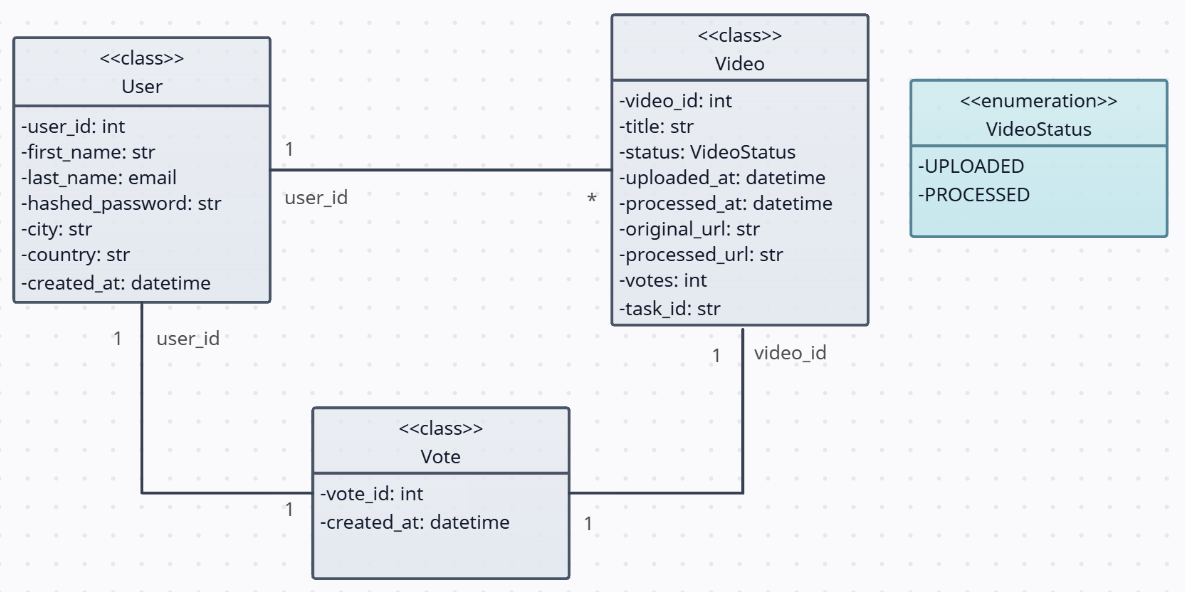
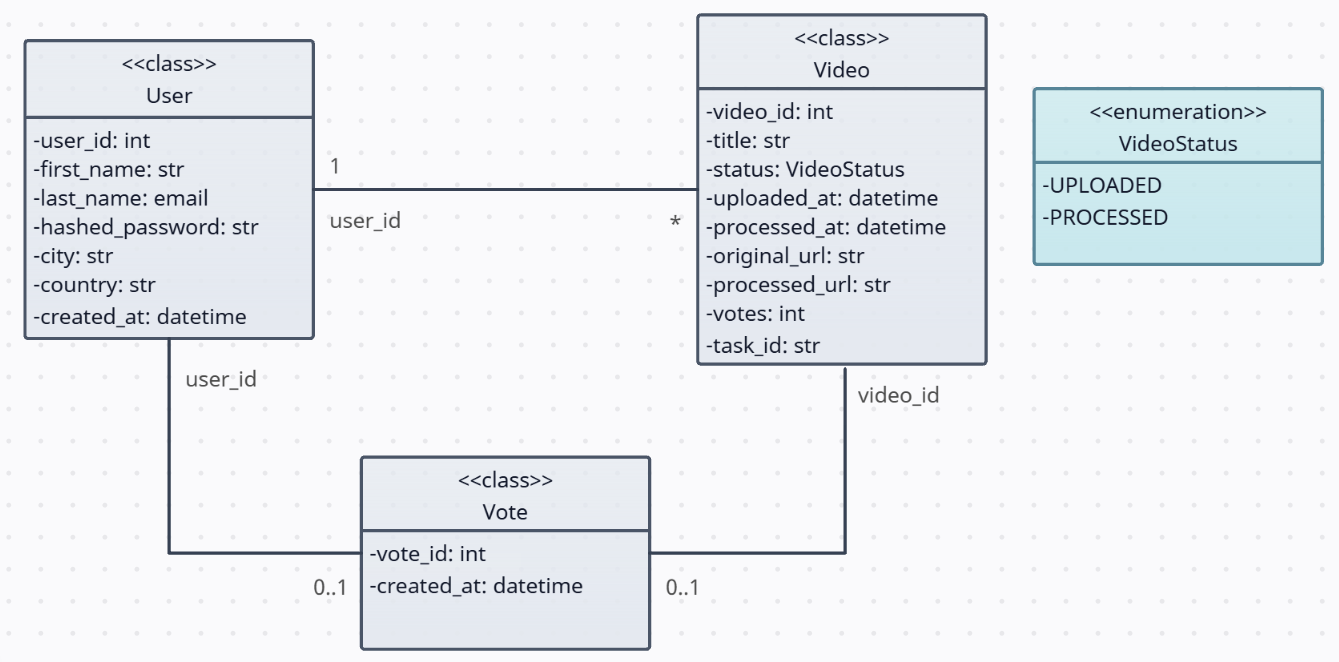
Add more docs

Changed region(s): [[0.0, 0.0, 0.9992, 1.0]]

diff --git a/docs/Entrega_1/pruebas_postman.md b/docs/Entrega_1/pruebas_postman.md
@@ -17,7 +17,7 @@ python -m venv venv
 ### 2. Activar el Ambiente Virtual
 **En Windows:**
 ```bash
-source venv\Scripts\activate
+source venv/Scripts/activate
 ```
 
 **En Linux/Mac:**
@@ -41,7 +41,7 @@ uvicorn main:app --reload
 ```
 
 ### 6. Parar el Servicio de Celery
-Si tiene uno o varios servicios de Celery corriendo, termínelos **todos** en la terminal donde se estén ejecutando. Esto lo puede hacer con `ctrl+C` en Windows o `cmd+C` en Mac. 
+Si tiene uno o varios servicios de Celery corriendo, espere a que se terminen de procesar las tareas y luego termínelos **todos** en la terminal donde se estén ejecutando. Esto lo puede hacer con `ctrl+C` en Windows o `cmd+C` en Mac. 
 
 Esto se hace con el fin de no procesar los videos subidos (2) durante las pruebas, puesto que pueden tardar un rato y ocupar el worker si se llega a necesitar de verdad. Si no le molesta y sí los quiere procesar, ignore este paso.
 
@@ -64,7 +64,7 @@ npm install -g newman
 ### 9. Correr las Pruebas
 En una nueva terminal:
 ```bash
- newman run collections/ANB_Tests.postman_collection.json
+newman run collections/ANB_Tests.postman_collection.json
 ```
 ### 10. Observar los Resultados
 Una vez se hayan terminado de ejcutar las pruebas, debería observar el siguiente resultado en la terminal:

diff --git a/docs/Entrega_1/pruebas_unitarias.md b/docs/Entrega_1/pruebas_unitarias.md
@@ -11,7 +11,7 @@ python -m venv venv
 ### 2. Activar el Ambiente Virtual
 **En Windows:**
 ```bash
-source venv\Scripts\activate
+source venv/Scripts/activate
 ```
 
 **En Linux/Mac:**
@@ -35,7 +35,7 @@ uvicorn main:app --reload
 ```
 
 ### 6. Parar el Servicio de Celery
-Si tiene uno o varios servicios de Celery corriendo, termínelos **todos** en la terminal donde se estén ejecutando. Esto lo puede hacer con `ctrl+C` en Windows o `cmd+C` en Mac.
+Si tiene uno o varios servicios de Celery corriendo, espere a que se terminen de procesar las tareas y luego termínelos **todos** en la terminal donde se estén ejecutando. Esto lo puede hacer con `ctrl+C` en Windows o `cmd+C` en Mac. 
 
 Esto se hace con el fin de no procesar los videos subidos (12) durante las pruebas, puesto que pueden tardar un rato y ocupar el worker si se llega a necesitar de verdad. Si no le molesta y sí los quiere procesar, ignore este paso.
 

diff --git a/README.md b/README.md
@@ -11,7 +11,7 @@ Laura María Restrepo Palomino | l.restrepop@uniandes.edu.co
 ## Documentación y Contenido del Repositorio
 La documentación relevante a la entrega 1, y otro contenido de interés puede ser accedido mediante los siguientes enlaces:
 - [Documentación](docs/Entrega_1/)
-    - [Ejecución de la aplicación](docs/Entrega_1/intrucciones_despliegue.md)
+    - [Ejecución de la aplicación](docs/Entrega_1/intrucciones_ejecucion.md)
     - [Documentación Postman](docs/Entrega_1/pruebas_postman.md)
     - [Diagramas y modelos](docs/Entrega_1/diagramas.md)
     - [Pruebas unitarias](docs/Entrega_1/pruebas_unitarias.md)

diff --git a/docs/Entrega_1/diagramas.md b/docs/Entrega_1/diagramas.md
@@ -3,4 +3,4 @@ Los diagramas relevantes al proyecto pueden ser encontrados en los siguientes en
 - [Modelo de datos](diagramas/modelo_de_datos.png)
 - [Diagrama de componentes](diagramas/diagrama_componentes.png)
 - [Diagrama de flujo de procesos](diagramas/flujo_de_procesos.jpg)
-- [Diagrama de despligue]()
+- [Diagrama de despligue](diagramas/diagrama_despliegue.png)

diff --git a/docs/Entrega_1/intrucciones_ejecucion.md b/docs/Entrega_1/intrucciones_ejecucion.md
@@ -8,7 +8,7 @@ python -m venv venv
 ### 2. Activar el Ambiente Virtual
 **En Windows:**
 ```bash
-source venv\Scripts\activate
+source venv/Scripts/activate
 ```
 
 **En Linux/Mac:**
